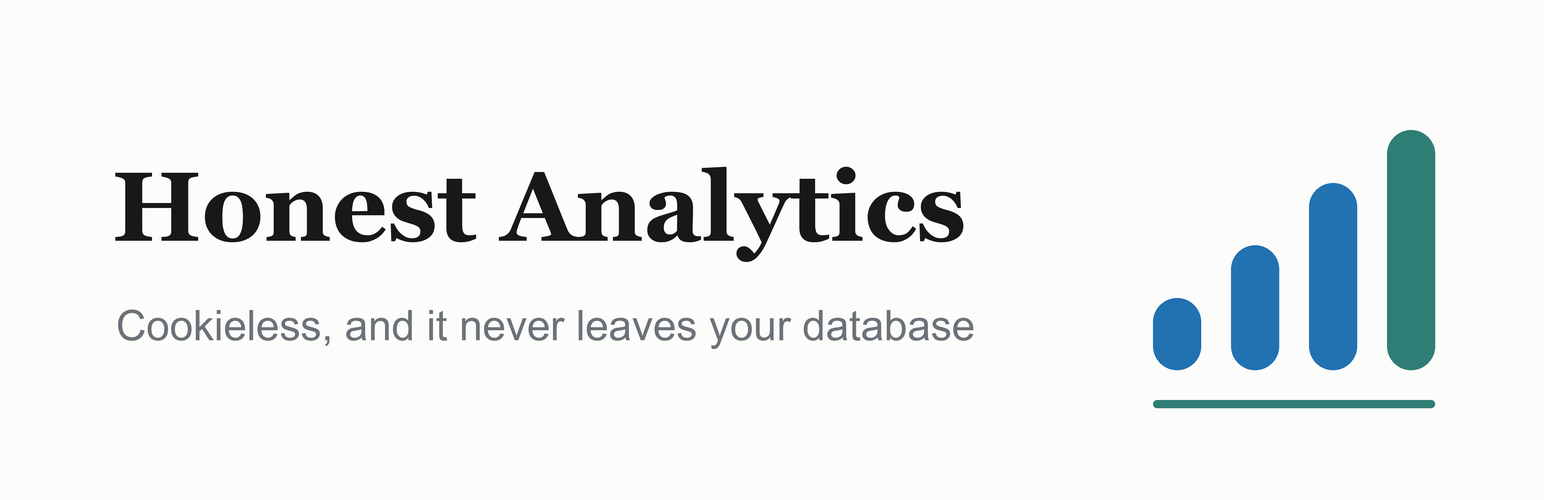
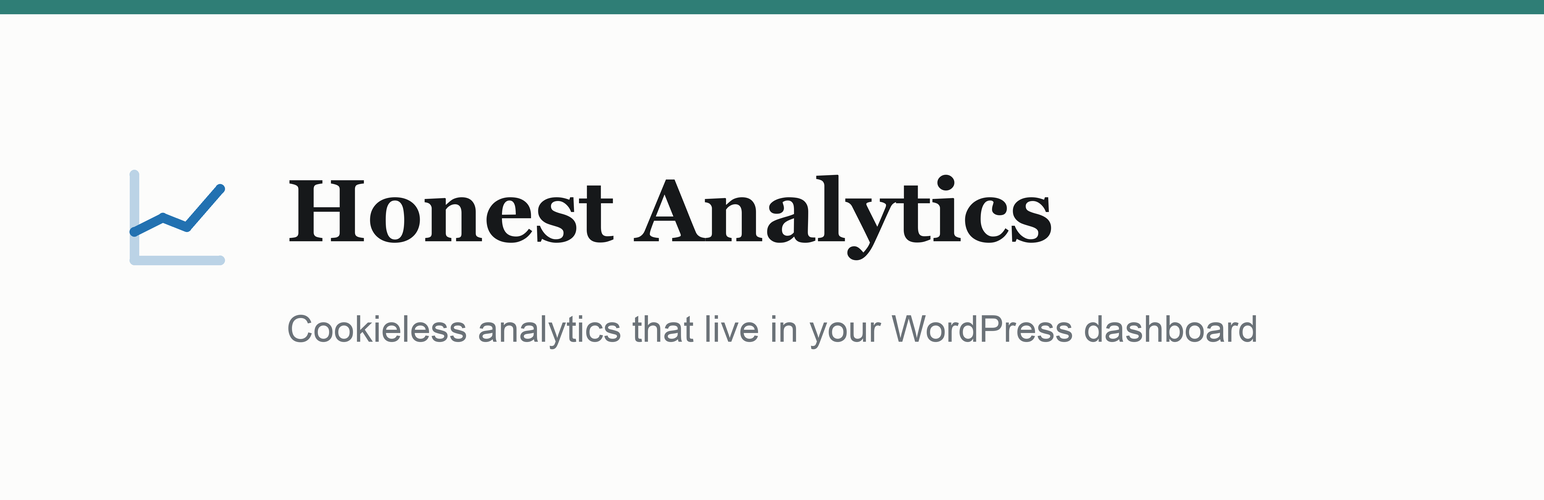
Honest Analytics 0.8.4, rebuilt

diff --git a/CHANGELOG.md b/CHANGELOG.md
@@ -13,10 +13,10 @@ and this project uses [semantic versioning](https://semver.org/spec/v2.0.0.html)
 
 - **The plugin directory has an icon and a banner.** `.wordpress-org/` held a
   to-do list and nothing else, and a listing with no icon reads as abandoned
-  before anybody has read a word of it. They are drawn by
-  `bin/directory-assets.py` from the marketing site's own palette rather than
-  exported by hand, so the listing and the site cannot drift apart, and a
-  change to either is a diff. Screenshots are still outstanding, and are noted
+  before anybody has read a word of it. Both carry the marketing site's own
+  logo - the chart from its `favicon.svg`, its palette, its serif - and are
+  drawn by `bin/directory-assets.py` rather than exported by hand, so the
+  directory cannot end up showing a mark the site stopped using. Screenshots are still outstanding, and are noted
   there as needing to come from a Lite install rather than from the demo,
   which runs this tree and so behaves as Pro.
 - **A second workflow keeps the listing up to date without a release.** The

diff --git a/.wordpress-org/README.md b/.wordpress-org/README.md
@@ -21,10 +21,16 @@ Drawn by `bin/directory-assets.py`, not by hand. Run it to change them:
 python3 bin/directory-assets.py
 ```
 
-The palette is copied from the marketing site's `src/styles/tokens.css` and
-the wordmark is set in the same serif the site falls back to, so the listing
-and the site do not drift apart. A designer replacing these should replace the
-script as well, or the next run will quietly overwrite their work.
+The mark is the marketing site's own logo - the chart geometry is
+`public/favicon.svg` drawn at a larger size, the palette comes from
+`src/styles/tokens.css`, and the wordmark is set in the same serif the site
+falls back to. The banner follows the lockup the site's share image uses: the
+teal rule, then the mark and the name together, then one line of sans.
+
+Somebody changing the logo on the site should change it here in the same
+sitting, or the directory quietly shows last year's brand. A designer
+replacing these outright should replace the script as well, or the next run
+overwrites their work.
 
 ## The screenshots
 
